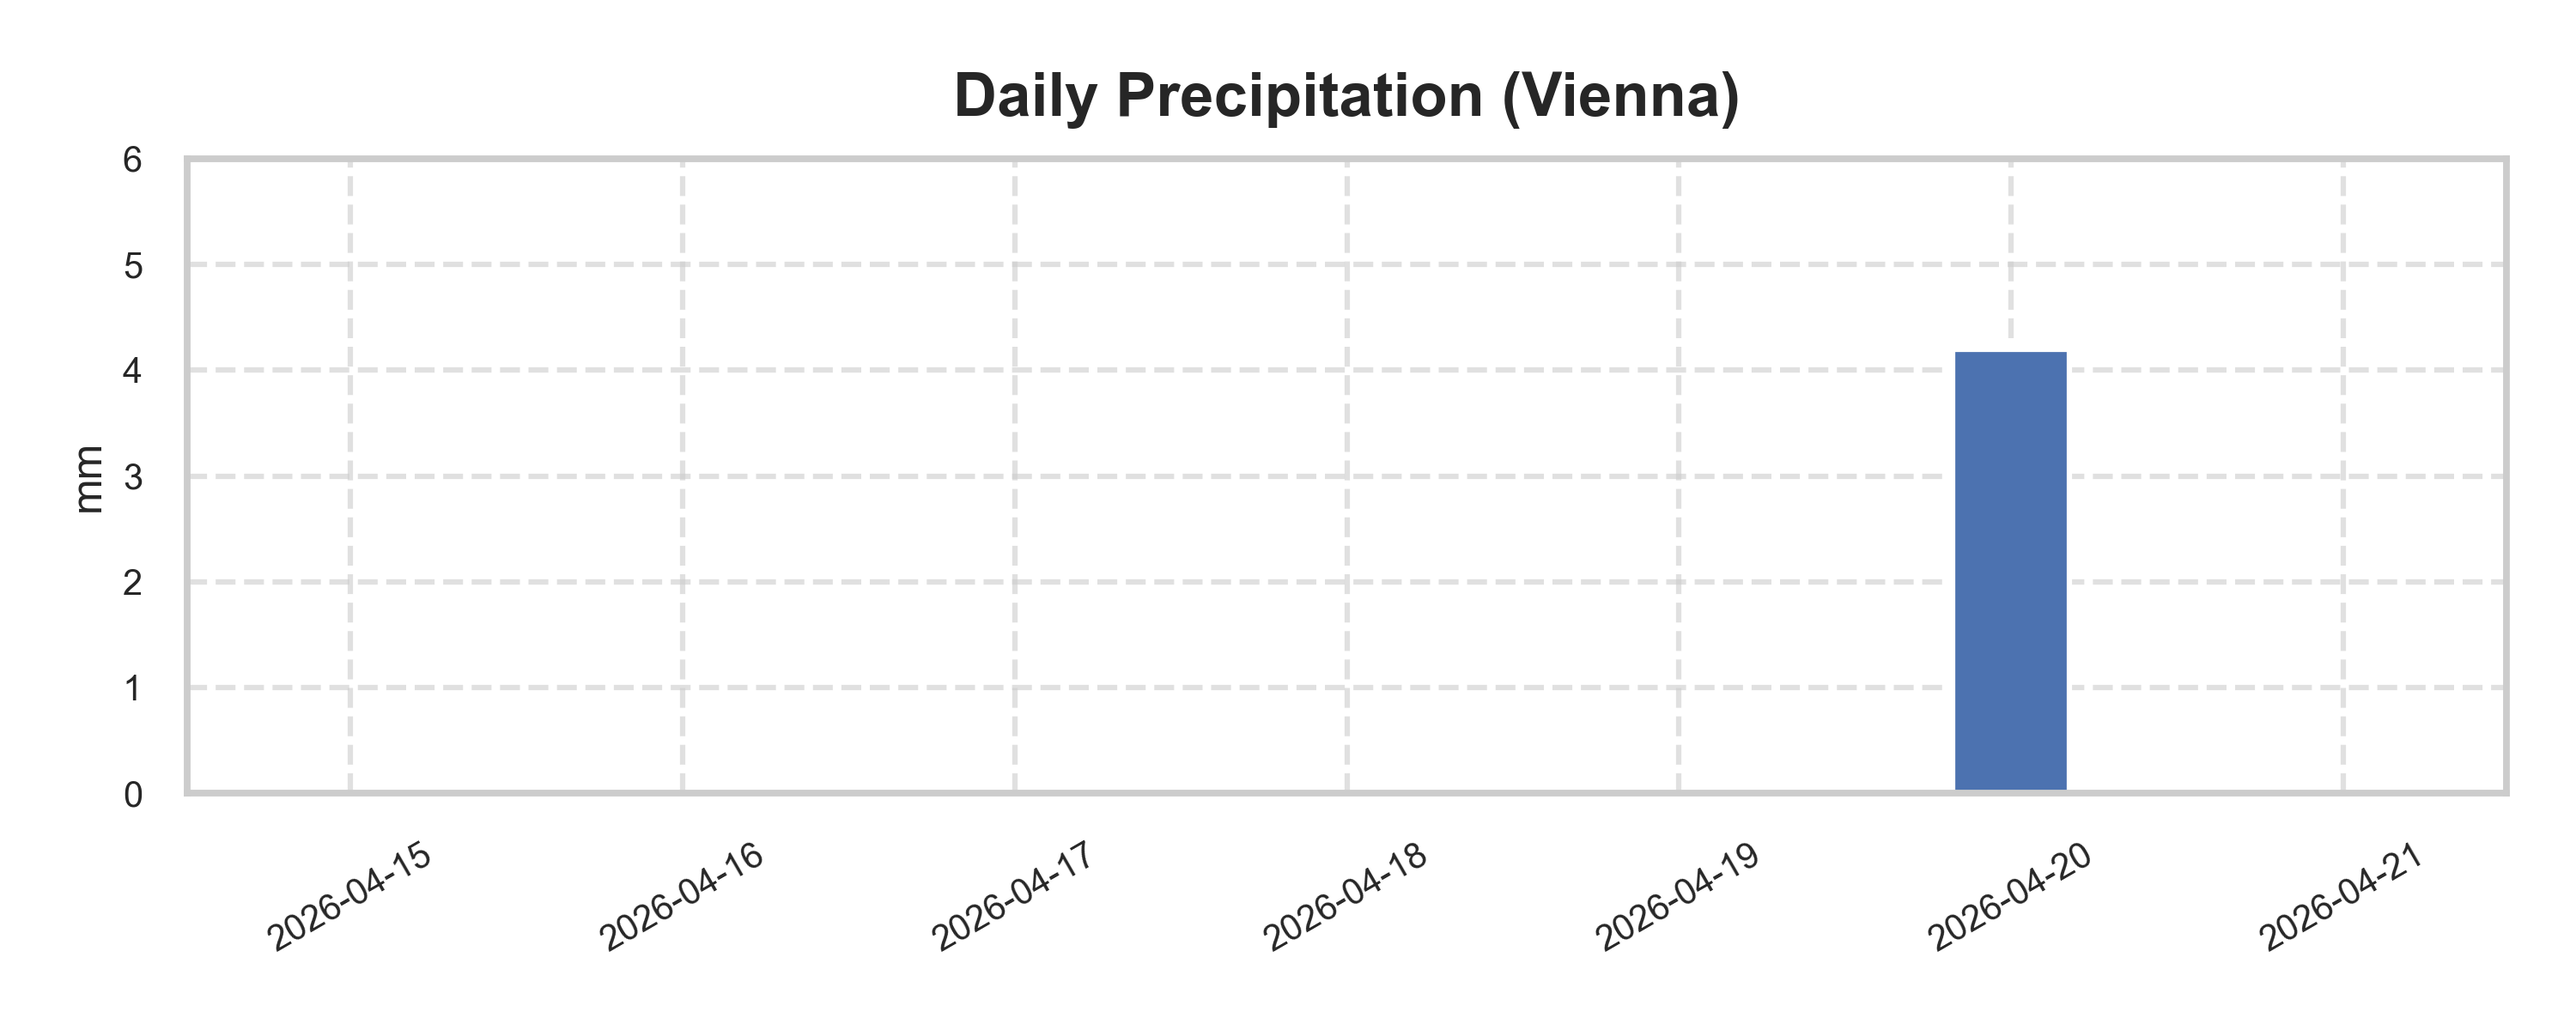
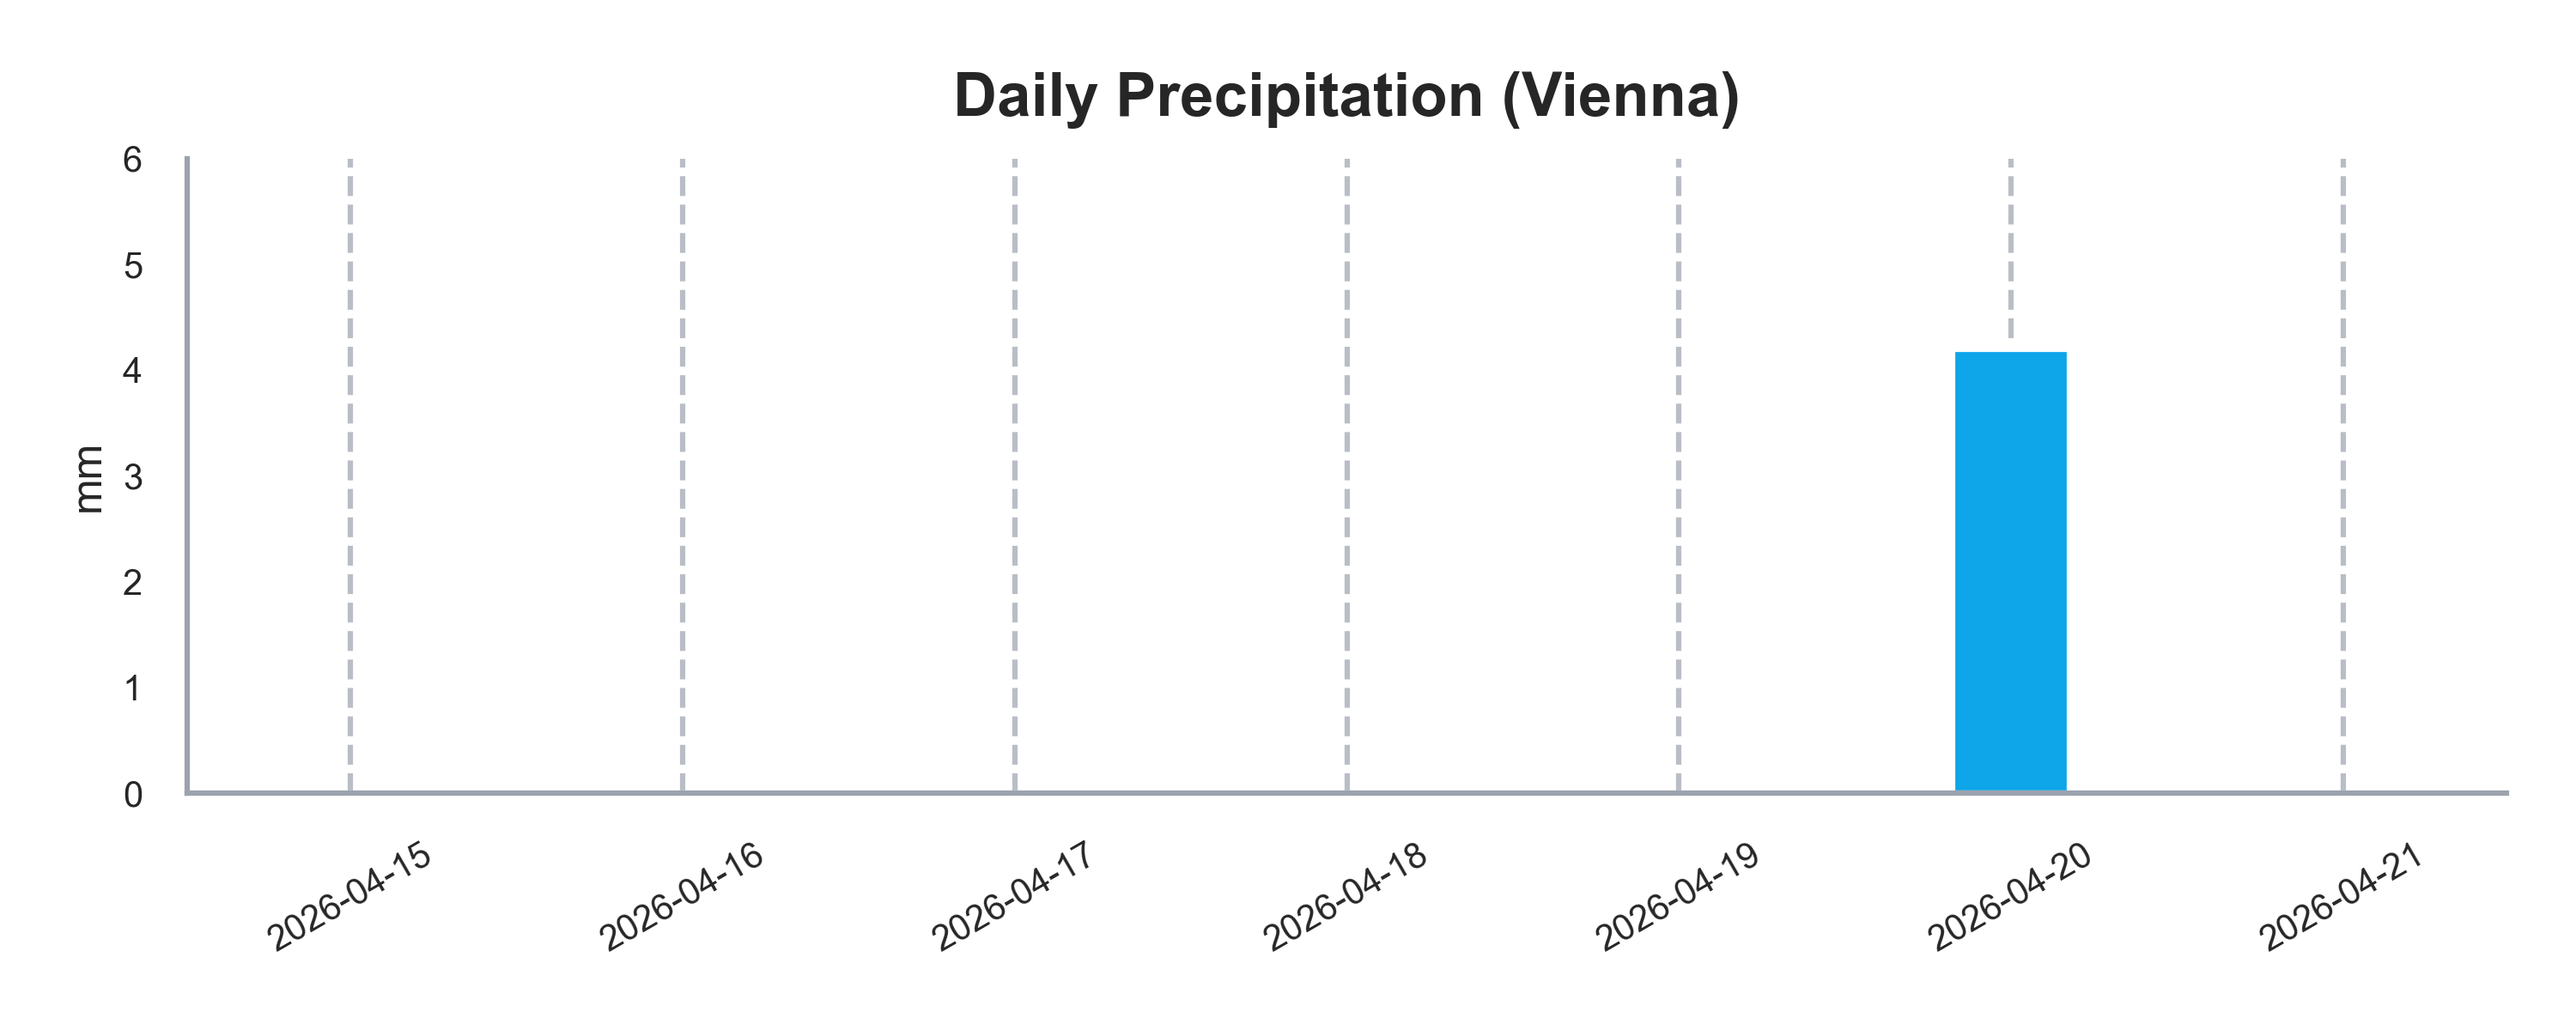
Refactor visualization colors and grid styles

diff --git a/src/visualization.py b/src/visualization.py
@@ -2,15 +2,20 @@ import numpy as np
 import matplotlib.pyplot as plt
 import seaborn as sns
 
-sns.set_theme(style="whitegrid", context="talk")
-sns.despine()
-sns.set_palette("deep")
+sns.set_theme(style="white", context="talk")
+COLORS = {
+    "primary": "#2563eb",    # blue
+    "secondary": "#f59e0b",  # amber/orange
+    "accent": "#dc2626",     # red
+    "neutral": "#6b7280",    # gray
+    "water": "#0ea5e9"       # cyan (for precipitation only)
+}
 
 def plot_weather(df):
     fig, ax = plt.subplots(figsize=(10, 5))
 
-    ax.plot(df["date_str"], df["temp_max"], label="Max Temperature °C", marker='o', linewidth=2)
-    ax.plot(df["date_str"], df["temp_min"], label="Min Temperature °C", marker='o', linewidth=2)
+    ax.plot(df["date_str"], df["temp_max"], label="Max Temperature °C", color=COLORS["primary"], marker='o', linewidth=2)
+    ax.plot(df["date_str"], df["temp_min"], label="Min Temperature °C", color=COLORS["neutral"], marker='o', linewidth=2)
 
     ax.set_title("Daily Temperature °C (Vienna)", fontsize=17, pad=12, weight="bold")
     ax.set_ylabel("°C", fontsize=12)
@@ -19,12 +24,19 @@ def plot_weather(df):
     y_max = int(df["temp_max"].max())
     ax.set_yticks(np.arange(y_min, y_max + 2, 3))
 
+    ax.tick_params(axis='x', labelsize=10, rotation=30)
     ax.tick_params(axis='y', labelsize=10)
 
     ax.legend(frameon=False)
-    ax.grid(True, linestyle='--', alpha=0.6)
 
-    plt.xticks(fontsize=10, rotation=30)
+    sns.despine(ax=ax, left=False, bottom=False)
+
+    ax.grid(True, axis="x", color="#9ca3af", linestyle="--", alpha=0.7)
+    
+    for spine in ["left", "bottom", "right", "top"]:
+        ax.spines[spine].set_linewidth(1.5)
+        ax.spines[spine].set_color("#9ca3af")
+
     plt.tight_layout()
     plt.savefig("outputs/weather_data.png", dpi=300)
     plt.close(fig)
@@ -35,7 +47,7 @@ def plot_precipitation(df):
 
     width = 0.35
 
-    ax.bar(df["date_str"], df["precipitation"], width)
+    ax.bar(df["date_str"], df["precipitation"], width, color=COLORS["water"])
 
     ax.set_title("Daily Precipitation (Vienna)", fontsize=17, pad=12, weight="bold")
     ax.set_ylabel("mm", fontsize=12)
@@ -44,11 +56,17 @@ def plot_precipitation(df):
 
     ax.set_yticks(np.arange(0, y_max + 1))
 
+    ax.tick_params(axis='x', labelsize=10, rotation=30)
     ax.tick_params(axis='y', labelsize=10)
 
-    ax.grid(True, linestyle='--', alpha=0.6)
+    sns.despine(ax=ax, left=False, bottom=False)
 
-    plt.xticks(fontsize=10, rotation=30)
+    ax.grid(True, axis="x", color="#9ca3af", linestyle="--", alpha=0.7)
+    
+    for spine in ["left", "bottom", "right", "top"]:
+        ax.spines[spine].set_linewidth(1.5)
+        ax.spines[spine].set_color("#9ca3af")
+
     plt.tight_layout()
     plt.savefig("outputs/precipitation.png", dpi=300)
     plt.close(fig)
@@ -57,17 +75,15 @@ def plot_temperature_with_ma(df):
 
     fig, ax = plt.subplots(figsize=(10, 5))
 
-    y = np.arange(-10, 41, 5)
-
-    ax.plot(df["date_str"], df["temp_avg"], label="Daily Average Temperature °C", linewidth=2, marker='o')
-    ax.plot(df["date_str"], df["temp_ma"], label="Moving Average (2d)", linewidth=1, linestyle='--')
+    ax.plot(df["date_str"], df["temp_avg"], label="Daily Average Temperature °C", color=COLORS["primary"], linewidth=2, marker='o')
+    ax.plot(df["date_str"], df["temp_ma"], label="Moving Average (2d)", color=COLORS["secondary"], linewidth=1, linestyle='--')
 
     anomalies = df[df["anomaly"]]
 
     ax.scatter(
         anomalies["date_str"],
         anomalies["temp_avg"],
-        color="#7d0926",
+        color=COLORS["accent"],
         label="Heat peaks and cold dips",
         zorder=3
     )
@@ -80,12 +96,19 @@ def plot_temperature_with_ma(df):
 
     ax.set_yticks(np.arange(y_min, y_max + 2))
     
+    ax.tick_params(axis='x', labelsize=10, rotation=30)
     ax.tick_params(axis='y', labelsize=10)
 
     ax.legend(frameon=False)
-    ax.grid(True, linestyle='--', alpha=0.6)
+    
+    sns.despine(ax=ax, left=False, bottom=False)
 
-    plt.xticks(fontsize=10, rotation=30)
+    ax.grid(True, axis="x", color="#9ca3af", linestyle="--", alpha=0.7)
+    
+    for spine in ["left", "bottom", "right", "top"]:
+        ax.spines[spine].set_linewidth(1.5)
+        ax.spines[spine].set_color("#9ca3af")
+
     plt.tight_layout()
     plt.savefig("outputs/temp_trend.png", dpi=300)
     plt.close(fig)
